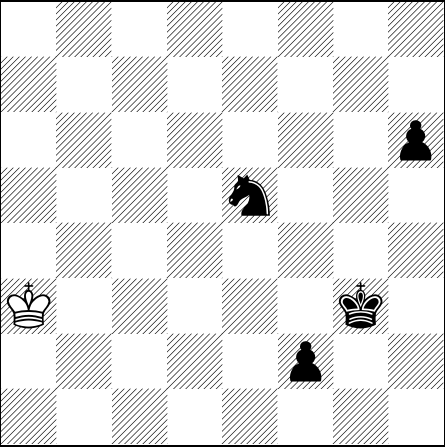
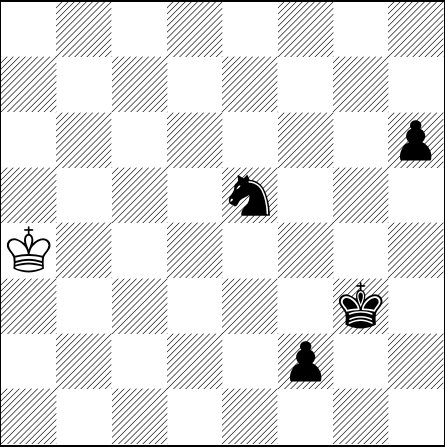
[automated] Regenerate text/pdf for chessboard

Changed region(s): [[0.0, 0.6398, 0.1169, 0.7562], [0.0, 0.4944, 0.1169, 0.6107]]

diff --git a/default_filepath.tex b/default_filepath.tex
@@ -13,6 +13,6 @@
 \normalsize%
 \setchessboard{showmover=false}%
 \newgame%
-\fenboard{8/8/7p/4n3/8/K5k1/5p2/8 w - - 4 177}%
+\fenboard{8/8/7p/4n3/K7/6k1/5p2/8 b - - 5 177}%
 \chessboard%
 \end{document}
